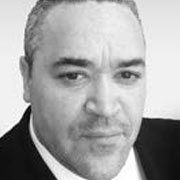
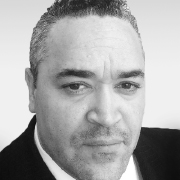
Adds “Updated Contact List Images”

diff --git a/introduction.html b/introduction.html
@@ -70,7 +70,7 @@
 						<div class="menu-divider">
 						<li class="col-sm-4 contact-wrap">
 							<ul>
-								<li class="contact-img"><img src="images/wade.jpg" class="img-responsive img-circle"></li>
+								<li class="contact-img"><img src="images/wade.jpg" class="img-responsive"></li>
 							</ul>
 
 						</li>
@@ -85,7 +85,7 @@
 					<div class="menu-divider">
 						<li class="col-sm-4 contact-wrap">
 							<ul>
-								<li class="contact-img"><img src="images/melissa.jpg" class="img-responsive img-circle"></li>
+								<li class="contact-img"><img src="images/melissa.jpg" class="img-responsive"></li>
 							</ul>
 
 						</li>
@@ -100,7 +100,7 @@
 					<div class="menu-divider">
 						<li class="col-sm-4 contact-wrap">
 							<ul>
-								<li class="contact-img"><img src="images/james.jpg" class="img-responsive img-circle"></li>
+								<li class="contact-img"><img src="images/james.jpg" class="img-responsive"></li>
 							</ul>
 
 						</li>
@@ -115,7 +115,7 @@
 						<div class="menu-divider">
 							<li class="col-sm-4 contact-wrap">
 								<ul>
-									<li class="contact-img"><img src="images/taveras.jpg" class="img-responsive img-circle"></li>
+									<li class="contact-img"><img src="images/taveras.jpg" class="img-responsive"></li>
 								</ul>
 
 							</li>
@@ -276,6 +276,7 @@
 								<div class="row">
 									<img src="images/intro-graphic-figure2.jpg" class="img-responsive imageZoom">
 								</div>
+								<p><i>Figure 2 – U.S. Intelligence Funding – Creative Commons Source: <a href="http://www.martingrandjean.ch" target="_blank">www.martingrandjean.ch</a></i></p>
 							</div>
 
 
@@ -289,6 +290,7 @@
 								<div class="row">
 									<img src="images/intro-graphic-figure1.jpg" class="img-responsive imageZoom">
 								</div>
+									<p><i>Figure 1 – IC Mission and Executive Agents Mapping</i></p>
 							</div>
 
 

diff --git a/chapter2.html b/chapter2.html
@@ -70,7 +70,7 @@
 						<div class="menu-divider">
 							<li class="col-sm-4 contact-wrap">
 								<ul>
-									<li class="contact-img"><img src="images/wade.jpg" class="img-responsive img-circle"></li>
+									<li class="contact-img"><img src="images/wade.jpg" class="img-responsive"></li>
 								</ul>
 
 							</li>
@@ -85,7 +85,7 @@
 						<div class="menu-divider">
 							<li class="col-sm-4 contact-wrap">
 								<ul>
-									<li class="contact-img"><img src="images/melissa.jpg" class="img-responsive img-circle"></li>
+									<li class="contact-img"><img src="images/melissa.jpg" class="img-responsive"></li>
 								</ul>
 
 							</li>
@@ -100,7 +100,7 @@
 						<div class="menu-divider">
 							<li class="col-sm-4 contact-wrap">
 								<ul>
-									<li class="contact-img"><img src="images/james.jpg" class="img-responsive img-circle"></li>
+									<li class="contact-img"><img src="images/james.jpg" class="img-responsive"></li>
 								</ul>
 
 							</li>
@@ -115,7 +115,7 @@
 						<div class="menu-divider">
 							<li class="col-sm-4 contact-wrap">
 								<ul>
-									<li class="contact-img"><img src="images/taveras.jpg" class="img-responsive img-circle"></li>
+									<li class="contact-img"><img src="images/taveras.jpg" class="img-responsive"></li>
 								</ul>
 
 							</li>

diff --git a/chapter3.html b/chapter3.html
@@ -71,7 +71,7 @@
 						<div class="menu-divider">
 							<li class="col-sm-4 contact-wrap">
 								<ul>
-									<li class="contact-img"><img src="images/wade.jpg" class="img-responsive img-circle"></li>
+									<li class="contact-img"><img src="images/wade.jpg" class="img-responsive"></li>
 								</ul>
 
 							</li>
@@ -86,7 +86,7 @@
 						<div class="menu-divider">
 							<li class="col-sm-4 contact-wrap">
 								<ul>
-									<li class="contact-img"><img src="images/melissa.jpg" class="img-responsive img-circle"></li>
+									<li class="contact-img"><img src="images/melissa.jpg" class="img-responsive"></li>
 								</ul>
 
 							</li>
@@ -101,7 +101,7 @@
 						<div class="menu-divider">
 							<li class="col-sm-4 contact-wrap">
 								<ul>
-									<li class="contact-img"><img src="images/james.jpg" class="img-responsive img-circle"></li>
+									<li class="contact-img"><img src="images/james.jpg" class="img-responsive"></li>
 								</ul>
 
 							</li>
@@ -116,7 +116,7 @@
 						<div class="menu-divider">
 							<li class="col-sm-4 contact-wrap">
 								<ul>
-									<li class="contact-img"><img src="images/taveras.jpg" class="img-responsive img-circle"></li>
+									<li class="contact-img"><img src="images/taveras.jpg" class="img-responsive"></li>
 								</ul>
 
 							</li>

diff --git a/chapter4.html b/chapter4.html
@@ -83,7 +83,7 @@
 						<div class="menu-divider">
 							<li class="col-sm-4 contact-wrap">
 								<ul>
-									<li class="contact-img"><img src="images/wade.jpg" class="img-responsive img-circle"></li>
+									<li class="contact-img"><img src="images/wade.jpg" class="img-responsive"></li>
 								</ul>
 
 							</li>
@@ -98,7 +98,7 @@
 						<div class="menu-divider">
 							<li class="col-sm-4 contact-wrap">
 								<ul>
-									<li class="contact-img"><img src="images/melissa.jpg" class="img-responsive img-circle"></li>
+									<li class="contact-img"><img src="images/melissa.jpg" class="img-responsive"></li>
 								</ul>
 
 							</li>
@@ -113,7 +113,7 @@
 						<div class="menu-divider">
 							<li class="col-sm-4 contact-wrap">
 								<ul>
-									<li class="contact-img"><img src="images/james.jpg" class="img-responsive img-circle"></li>
+									<li class="contact-img"><img src="images/james.jpg" class="img-responsive"></li>
 								</ul>
 
 							</li>
@@ -128,7 +128,7 @@
 						<div class="menu-divider">
 							<li class="col-sm-4 contact-wrap">
 								<ul>
-									<li class="contact-img"><img src="images/taveras.jpg" class="img-responsive img-circle"></li>
+									<li class="contact-img"><img src="images/taveras.jpg" class="img-responsive"></li>
 								</ul>
 
 							</li>

diff --git a/chapter5.html b/chapter5.html
@@ -70,7 +70,7 @@
 						<div class="menu-divider">
 							<li class="col-sm-4 contact-wrap">
 								<ul>
-									<li class="contact-img"><img src="images/wade.jpg" class="img-responsive img-circle"></li>
+									<li class="contact-img"><img src="images/wade.jpg" class="img-responsive"></li>
 								</ul>
 
 							</li>
@@ -85,7 +85,7 @@
 						<div class="menu-divider">
 							<li class="col-sm-4 contact-wrap">
 								<ul>
-									<li class="contact-img"><img src="images/melissa.jpg" class="img-responsive img-circle"></li>
+									<li class="contact-img"><img src="images/melissa.jpg" class="img-responsive"></li>
 								</ul>
 
 							</li>
@@ -100,7 +100,7 @@
 						<div class="menu-divider">
 							<li class="col-sm-4 contact-wrap">
 								<ul>
-									<li class="contact-img"><img src="images/james.jpg" class="img-responsive img-circle"></li>
+									<li class="contact-img"><img src="images/james.jpg" class="img-responsive"></li>
 								</ul>
 
 							</li>
@@ -115,7 +115,7 @@
 						<div class="menu-divider">
 							<li class="col-sm-4 contact-wrap">
 								<ul>
-									<li class="contact-img"><img src="images/taveras.jpg" class="img-responsive img-circle"></li>
+									<li class="contact-img"><img src="images/taveras.jpg" class="img-responsive"></li>
 								</ul>
 
 							</li>

diff --git a/chapter6.html b/chapter6.html
@@ -70,7 +70,7 @@
 						<div class="menu-divider">
 							<li class="col-sm-4 contact-wrap">
 								<ul>
-									<li class="contact-img"><img src="images/wade.jpg" class="img-responsive img-circle"></li>
+									<li class="contact-img"><img src="images/wade.jpg" class="img-responsive"></li>
 								</ul>
 
 							</li>
@@ -85,7 +85,7 @@
 						<div class="menu-divider">
 							<li class="col-sm-4 contact-wrap">
 								<ul>
-									<li class="contact-img"><img src="images/melissa.jpg" class="img-responsive img-circle"></li>
+									<li class="contact-img"><img src="images/melissa.jpg" class="img-responsive"></li>
 								</ul>
 
 							</li>
@@ -100,7 +100,7 @@
 						<div class="menu-divider">
 							<li class="col-sm-4 contact-wrap">
 								<ul>
-									<li class="contact-img"><img src="images/james.jpg" class="img-responsive img-circle"></li>
+									<li class="contact-img"><img src="images/james.jpg" class="img-responsive"></li>
 								</ul>
 
 							</li>
@@ -115,7 +115,7 @@
 						<div class="menu-divider">
 							<li class="col-sm-4 contact-wrap">
 								<ul>
-									<li class="contact-img"><img src="images/taveras.jpg" class="img-responsive img-circle"></li>
+									<li class="contact-img"><img src="images/taveras.jpg" class="img-responsive"></li>
 								</ul>
 
 							</li>

diff --git a/index.html b/index.html
@@ -70,7 +70,7 @@
 						<div class="menu-divider">
 							<li class="col-sm-4 contact-wrap">
 								<ul>
-									<li class="contact-img"><img src="images/wade.jpg" class="img-responsive img-circle"></li>
+									<li class="contact-img"><img src="images/wade.jpg" class="img-responsive"></li>
 								</ul>
 
 							</li>
@@ -85,7 +85,7 @@
 						<div class="menu-divider">
 							<li class="col-sm-4 contact-wrap">
 								<ul>
-									<li class="contact-img"><img src="images/melissa.jpg" class="img-responsive img-circle"></li>
+									<li class="contact-img"><img src="images/melissa.jpg" class="img-responsive"></li>
 								</ul>
 
 							</li>
@@ -100,7 +100,7 @@
 						<div class="menu-divider">
 							<li class="col-sm-4 contact-wrap">
 								<ul>
-									<li class="contact-img"><img src="images/james.jpg" class="img-responsive img-circle"></li>
+									<li class="contact-img"><img src="images/james.jpg" class="img-responsive"></li>
 								</ul>
 
 							</li>
@@ -115,7 +115,7 @@
 						<div class="menu-divider">
 							<li class="col-sm-4 contact-wrap">
 								<ul>
-									<li class="contact-img"><img src="images/taveras.jpg" class="img-responsive img-circle"></li>
+									<li class="contact-img"><img src="images/taveras.jpg" class="img-responsive"></li>
 								</ul>
 
 							</li>

diff --git a/chapter1.html b/chapter1.html
@@ -70,7 +70,7 @@
 						<div class="menu-divider">
 						<li class="col-sm-4 contact-wrap">
 							<ul>
-								<li class="contact-img"><img src="images/wade.jpg" class="img-responsive img-circle"></li>
+								<li class="contact-img"><img src="images/wade.jpg" class="img-responsive"></li>
 							</ul>
 
 						</li>
@@ -85,7 +85,7 @@
 					<div class="menu-divider">
 						<li class="col-sm-4 contact-wrap">
 							<ul>
-								<li class="contact-img"><img src="images/melissa.jpg" class="img-responsive img-circle"></li>
+								<li class="contact-img"><img src="images/melissa.jpg" class="img-responsive"></li>
 							</ul>
 
 						</li>
@@ -100,7 +100,7 @@
 					<div class="menu-divider">
 						<li class="col-sm-4 contact-wrap">
 							<ul>
-								<li class="contact-img"><img src="images/james.jpg" class="img-responsive img-circle"></li>
+								<li class="contact-img"><img src="images/james.jpg" class="img-responsive"></li>
 							</ul>
 
 						</li>
@@ -115,7 +115,7 @@
 						<div class="menu-divider">
 							<li class="col-sm-4 contact-wrap">
 								<ul>
-									<li class="contact-img"><img src="images/taveras.jpg" class="img-responsive img-circle"></li>
+									<li class="contact-img"><img src="images/taveras.jpg" class="img-responsive"></li>
 								</ul>
 
 							</li>

diff --git a/how.html b/how.html
@@ -70,7 +70,7 @@
 						<div class="menu-divider">
 						<li class="col-sm-4 contact-wrap">
 							<ul>
-								<li class="contact-img"><img src="images/wade.jpg" class="img-responsive img-circle"></li>
+								<li class="contact-img"><img src="images/wade.jpg" class="img-responsive"></li>
 							</ul>
 
 						</li>
@@ -85,7 +85,7 @@
 					<div class="menu-divider">
 						<li class="col-sm-4 contact-wrap">
 							<ul>
-								<li class="contact-img"><img src="images/melissa.jpg" class="img-responsive img-circle"></li>
+								<li class="contact-img"><img src="images/melissa.jpg" class="img-responsive"></li>
 							</ul>
 
 						</li>
@@ -100,7 +100,7 @@
 					<div class="menu-divider">
 						<li class="col-sm-4 contact-wrap">
 							<ul>
-								<li class="contact-img"><img src="images/james.jpg" class="img-responsive img-circle"></li>
+								<li class="contact-img"><img src="images/james.jpg" class="img-responsive"></li>
 							</ul>
 
 						</li>
@@ -115,7 +115,7 @@
 						<div class="menu-divider">
 							<li class="col-sm-4 contact-wrap">
 								<ul>
-									<li class="contact-img"><img src="images/taveras.jpg" class="img-responsive img-circle"></li>
+									<li class="contact-img"><img src="images/taveras.jpg" class="img-responsive"></li>
 								</ul>
 
 							</li>

diff --git a/summary.html b/summary.html
@@ -70,7 +70,7 @@
 						<div class="menu-divider">
 						<li class="col-sm-4 contact-wrap">
 							<ul>
-								<li class="contact-img"><img src="images/wade.jpg" class="img-responsive img-circle"></li>
+								<li class="contact-img"><img src="images/wade.jpg" class="img-responsive"></li>
 							</ul>
 
 						</li>
@@ -85,7 +85,7 @@
 					<div class="menu-divider">
 						<li class="col-sm-4 contact-wrap">
 							<ul>
-								<li class="contact-img"><img src="images/melissa.jpg" class="img-responsive img-circle"></li>
+								<li class="contact-img"><img src="images/melissa.jpg" class="img-responsive"></li>
 							</ul>
 
 						</li>
@@ -100,7 +100,7 @@
 					<div class="menu-divider">
 						<li class="col-sm-4 contact-wrap">
 							<ul>
-								<li class="contact-img"><img src="images/james.jpg" class="img-responsive img-circle"></li>
+								<li class="contact-img"><img src="images/james.jpg" class="img-responsive"></li>
 							</ul>
 
 						</li>
@@ -115,7 +115,7 @@
 						<div class="menu-divider">
 							<li class="col-sm-4 contact-wrap">
 								<ul>
-									<li class="contact-img"><img src="images/taveras.jpg" class="img-responsive img-circle"></li>
+									<li class="contact-img"><img src="images/taveras.jpg" class="img-responsive"></li>
 								</ul>
 
 							</li>
